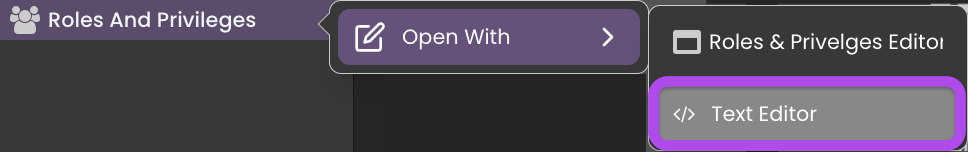
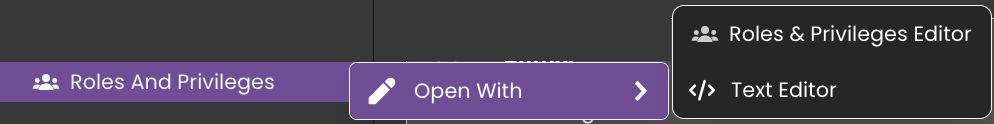
Update "Roles & Privileges" to the latest

diff --git a/docs/studio/roles/permissionsOverview.md b/docs/studio/roles/permissionsOverview.md
@@ -10,6 +10,8 @@ In managing access control within your application, understanding the hierarchy 
 
 ## Permissions
 
+The permissions grid provides a comprehensive interface for managing access control.
+
 ### Permission Types
 
 Permissions define essential actions on resources, covering tasks such as creation, reading, updating, deletion, description, execution (for functions), and promotion (also for functions).
@@ -24,11 +26,60 @@ Permissions define essential actions on resources, covering tasks such as creati
 | Execute | Execute all functions throughout the Model, including DataStore, Dataclasses, Entity selections, and Entities. | Execute any function on the chosen dataclass (Dataclass functions, entity functions, and entity selection functions). | n/a | Execute the selected function. |
 | Promote    | n/a | n/a | n/a | Temporarily adds a specific privilege to the session during function execution, primarily for secure privilege escalation. |
 
-### How to Assign Permissions
+### Search Functionality
+
+The search bar <img src={require('./img/searchPermissions.png').default} style={{borderRadius: '6px', width:'30%'}} /> allows users to quickly locate permissions by typing keywords. The search dynamically narrows the list of displayed permissions based on the input.
+
+
+### Filter Functionality
+
+The filter menu <img src={require('./img/FilterPermissions.png').default} style={{borderRadius: '6px', width:'3%'}} /> enables users to narrow down permissions based on specific categories. 
+
+<Column.List align="center">
+    <Column.Item width="20%">
+        Available filters include:
+        <ul>
+            <li>Datastore</li>
+            <li>Dataclass</li>
+            <li>Singleton</li>
+            <li>Functions</li>
+            <li>Attribute</li>
+        </ul>
+    </Column.Item>
+    <Column.Item width="15%">
+        <img src={require('./img/FilterMenuPermissions.png').default} style={{borderRadius: '6px'}} />
+    </Column.Item>
+</Column.List>
+
+Users can check the desired filter options to display only the relevant permissions.
+
+
+### Create a Permission
+
+To create a new permission in the current privilege:
+
+- Click on the `+ Create a permission` bar <img src={require('./img/CreatePermissions.png').default} style={{borderRadius: '6px', width:'30%'}} />.
+
+- A dropdown menu will display a list of available assets (e.g., Datastore, Functions, Singletons, Attributes).
+    <img src={require('./img/CreatePermissionsMenu.png').default} style={{borderRadius: '6px', width:'20%'}} />
+
+- Select the desired asset to create and configure its permissions.
+
+
+### Assign Permissions
 
 Permissions for specific resources—such as Datastore, DataClass, and Attribute—are easily set by checking the corresponding boxes in the permissions grid. Each permission (such as Read, Create, Update, Delete, Describe, Execute, and Promote) can be granted by selecting the checkbox under the relevant column for each resource.
 
 <img src={require('./img/Permissions.png').default} style={{borderRadius: '6px'}} />
+
+
+### Reset Permissions
+
+The reset functionality allows users to clear all permissions for the current privilege. This action removes all configurations, providing a clean slate:
+
+- Click the Reset button <img src={require('./img/ResetPermissions.png').default} style={{borderRadius: '6px', width:'10%'}} />.
+
+- A confirmation dialog will appear, asking the user to confirm or cancel the action <img src={require('./img/ResetPermissionsDialog.png').default} style={{borderRadius: '6px', width:'30%'}} />.
 
 
 ## Inheritance

diff --git a/docs/studio/roles/rolesPrivilegesOverview.md b/docs/studio/roles/rolesPrivilegesOverview.md
@@ -1,6 +1,6 @@
 ---
 id: overview
-title: Configuring Roles & Privilege
+title: Configuring Roles & Privileges
 ---
 import Column from '@site/src/components/Column'
 
@@ -63,11 +63,9 @@ To add a role:
 1. Open the `Explorer` Panel.
 2. Navigate to the `Roles and Privileges` section.
 3. Click on the `Roles` tab to access role management.
-4. To create a new role, click on the `Add new role` card.
+4. To create a new role, click on the `+` button next to Roles. <img src={require('./img/addRole.png').default} style={{borderRadius: '6px', width:'30%'}} />
 
-<img src={require('./img/addRole.png').default} style={{borderRadius: '6px'}} />
 
-<br/><br/>
 
 :::note Example
 In a back-office travel agency solution, you might create roles such as:
@@ -117,7 +115,7 @@ To assign one or multiple privileges to a role:
 
 1. Navigate to the `Roles` tab within the `Roles and Privileges` section.
 2. Select the desired role (e.g., `Sales Manager`).
-3. Locate the privileges side section on the far right.
+3. Locate the privileges section on the top.
 4. In this section, you'll find a comprehensive list of available privileges.
 5. To assign a privilege, click the `+` icon.
 6. To remove a privilege, simply click the `-` icon.
